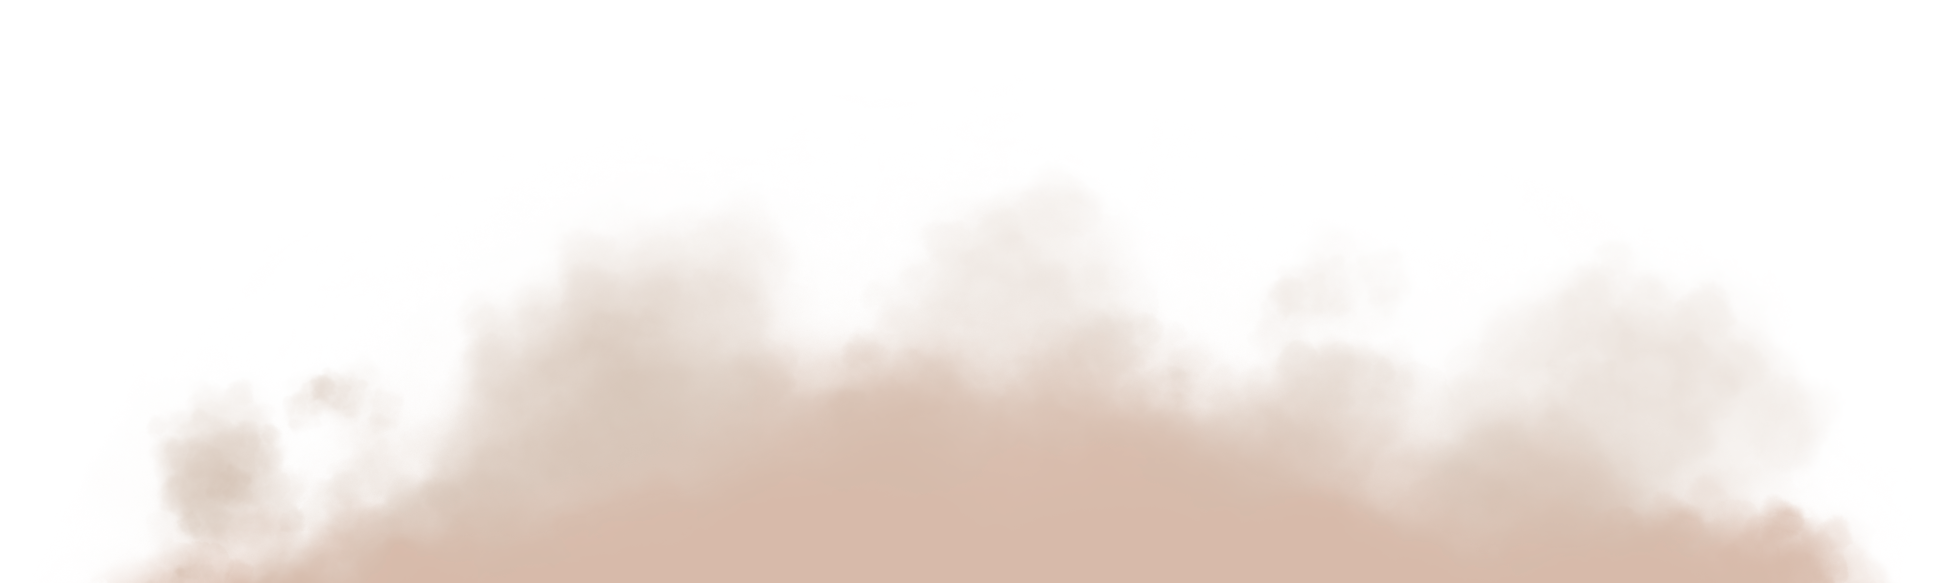
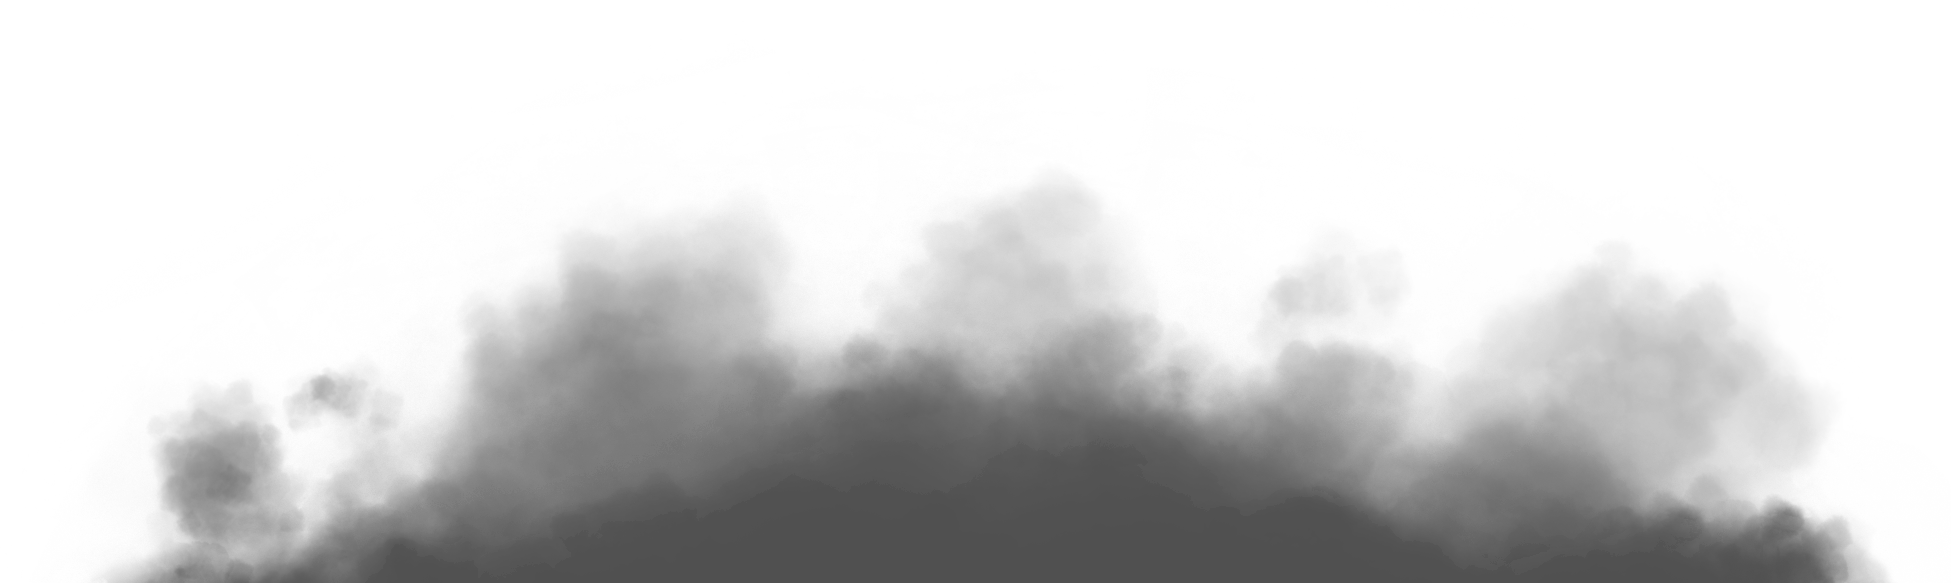
awan ganti warna

diff --git a/index.html b/index.html
@@ -91,11 +91,11 @@
                     </div>
 
                     <div class="clouds">
-                        <img src="./imagens/nuvem/cloud1.png" style="--i: 1" />
-                        <img src="./imagens/nuvem/cloud2.png" style="--i: 2" />
-                        <img src="./imagens/nuvem/cloud3.png" style="--i: 3" />
-                        <img src="./imagens/nuvem/cloud4.png" style="--i: 3.5"/>
-                        <img src="./imagens/nuvem/cloud5.png" style="--i: 4" />     
+                        <img src="./imagens/nuvem/Cloud1.png" style="--i: 1" />
+                        <img src="./imagens/nuvem/Cloud2.png" style="--i: 2" />
+                        <img src="./imagens/nuvem/Cloud3.png" style="--i: 3" />
+                        <img src="./imagens/nuvem/Cloud4.png" style="--i: 3.5"/>
+                        <img src="./imagens/nuvem/Cloud5.png" style="--i: 4" />     
                     </div>
                 </div>
             </div>
@@ -126,7 +126,7 @@
                         data-aos-duration="1500"
                         data-aos-easing="ease-out-cubic">
                         
-                            Welcome to 9 PMm, where every moment is an opportunity to leave a lasting impression. Founded in 2024, 9 PM creates exquisite fragrances that enhance your daily activities and ensure you make a memorable impact.
+                            Welcome to 9 PM, where every moment is an opportunity to leave a lasting impression. Founded in 2024, 9 PM creates exquisite fragrances that enhance your daily activities and ensure you make a memorable impact.
 
                             We offer perfumes with exceptional sillage, projection, and longevity (SPL) at attractive prices. Our diverse lineup suits various occasions, from professional settings to casual hangouts, providing the perfect aroma for any situation.
 

diff --git a/css/estilo.css b/css/estilo.css
@@ -39,7 +39,7 @@
 
 .btn-close{
     color: var(--corFundo2);
-    background-color: #c0ab95;
+    background-color: white;
 }
 
 .modal h1{
@@ -151,14 +151,14 @@
 
 :root{
     --corFundo1:#181818;
-    --corFundo2:#D6BAAA;
+    --corFundo2:white;
     --corFundo3:#eeeeee;
     
 
     --corTexto1:#181818;
-    --corTexto2:#c7b8a8;
-    --corTexto3:#e2d4c4;
-    --corTexto4:#e2d4c4;
+    --corTexto2:white;
+    --corTexto3:white;
+    --corTexto4:white;
 
 }
 
@@ -401,7 +401,7 @@ h2{
 
 
 .AboutUS{
-    background-color: var(--corFundo2);
+    background-color: white;
     min-height: 100vh;
     width: 100%;
     display: flex;
@@ -509,7 +509,7 @@ h2{
 .final
 {
     padding: 5px 0px;
-    background-color: var(--corFundo2);
+    background-color: white;
     color: var(--corTexto1);
     justify-content: center;
     font-size: 14px;    
